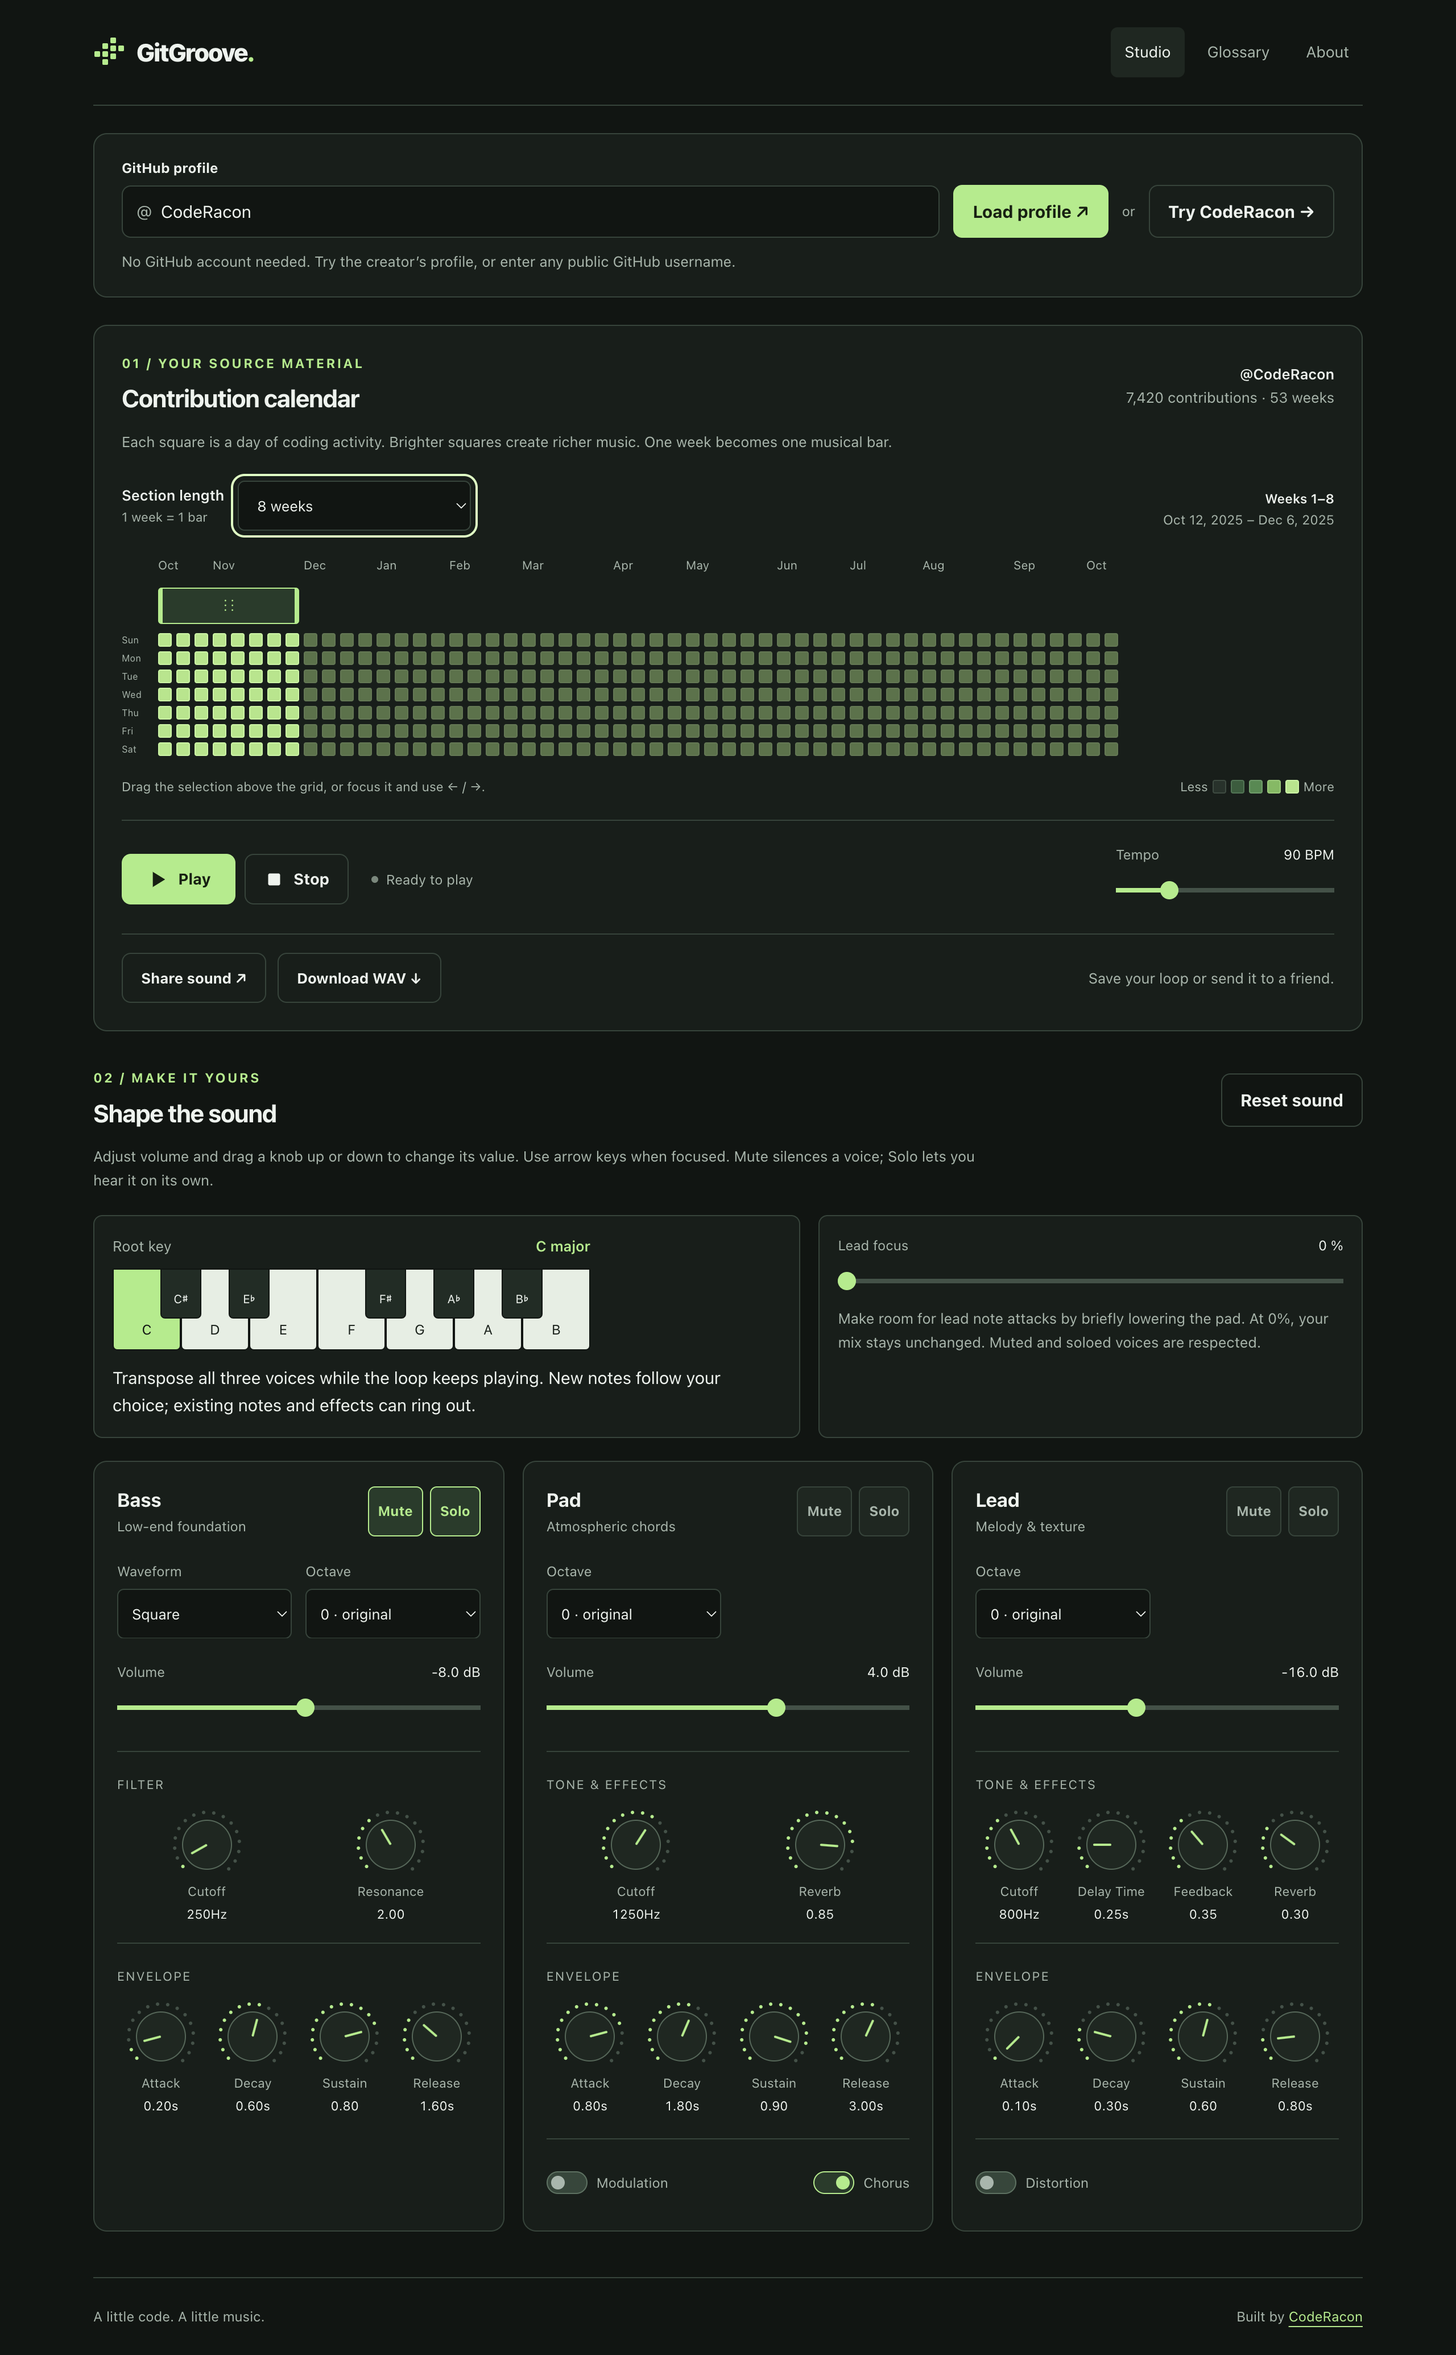
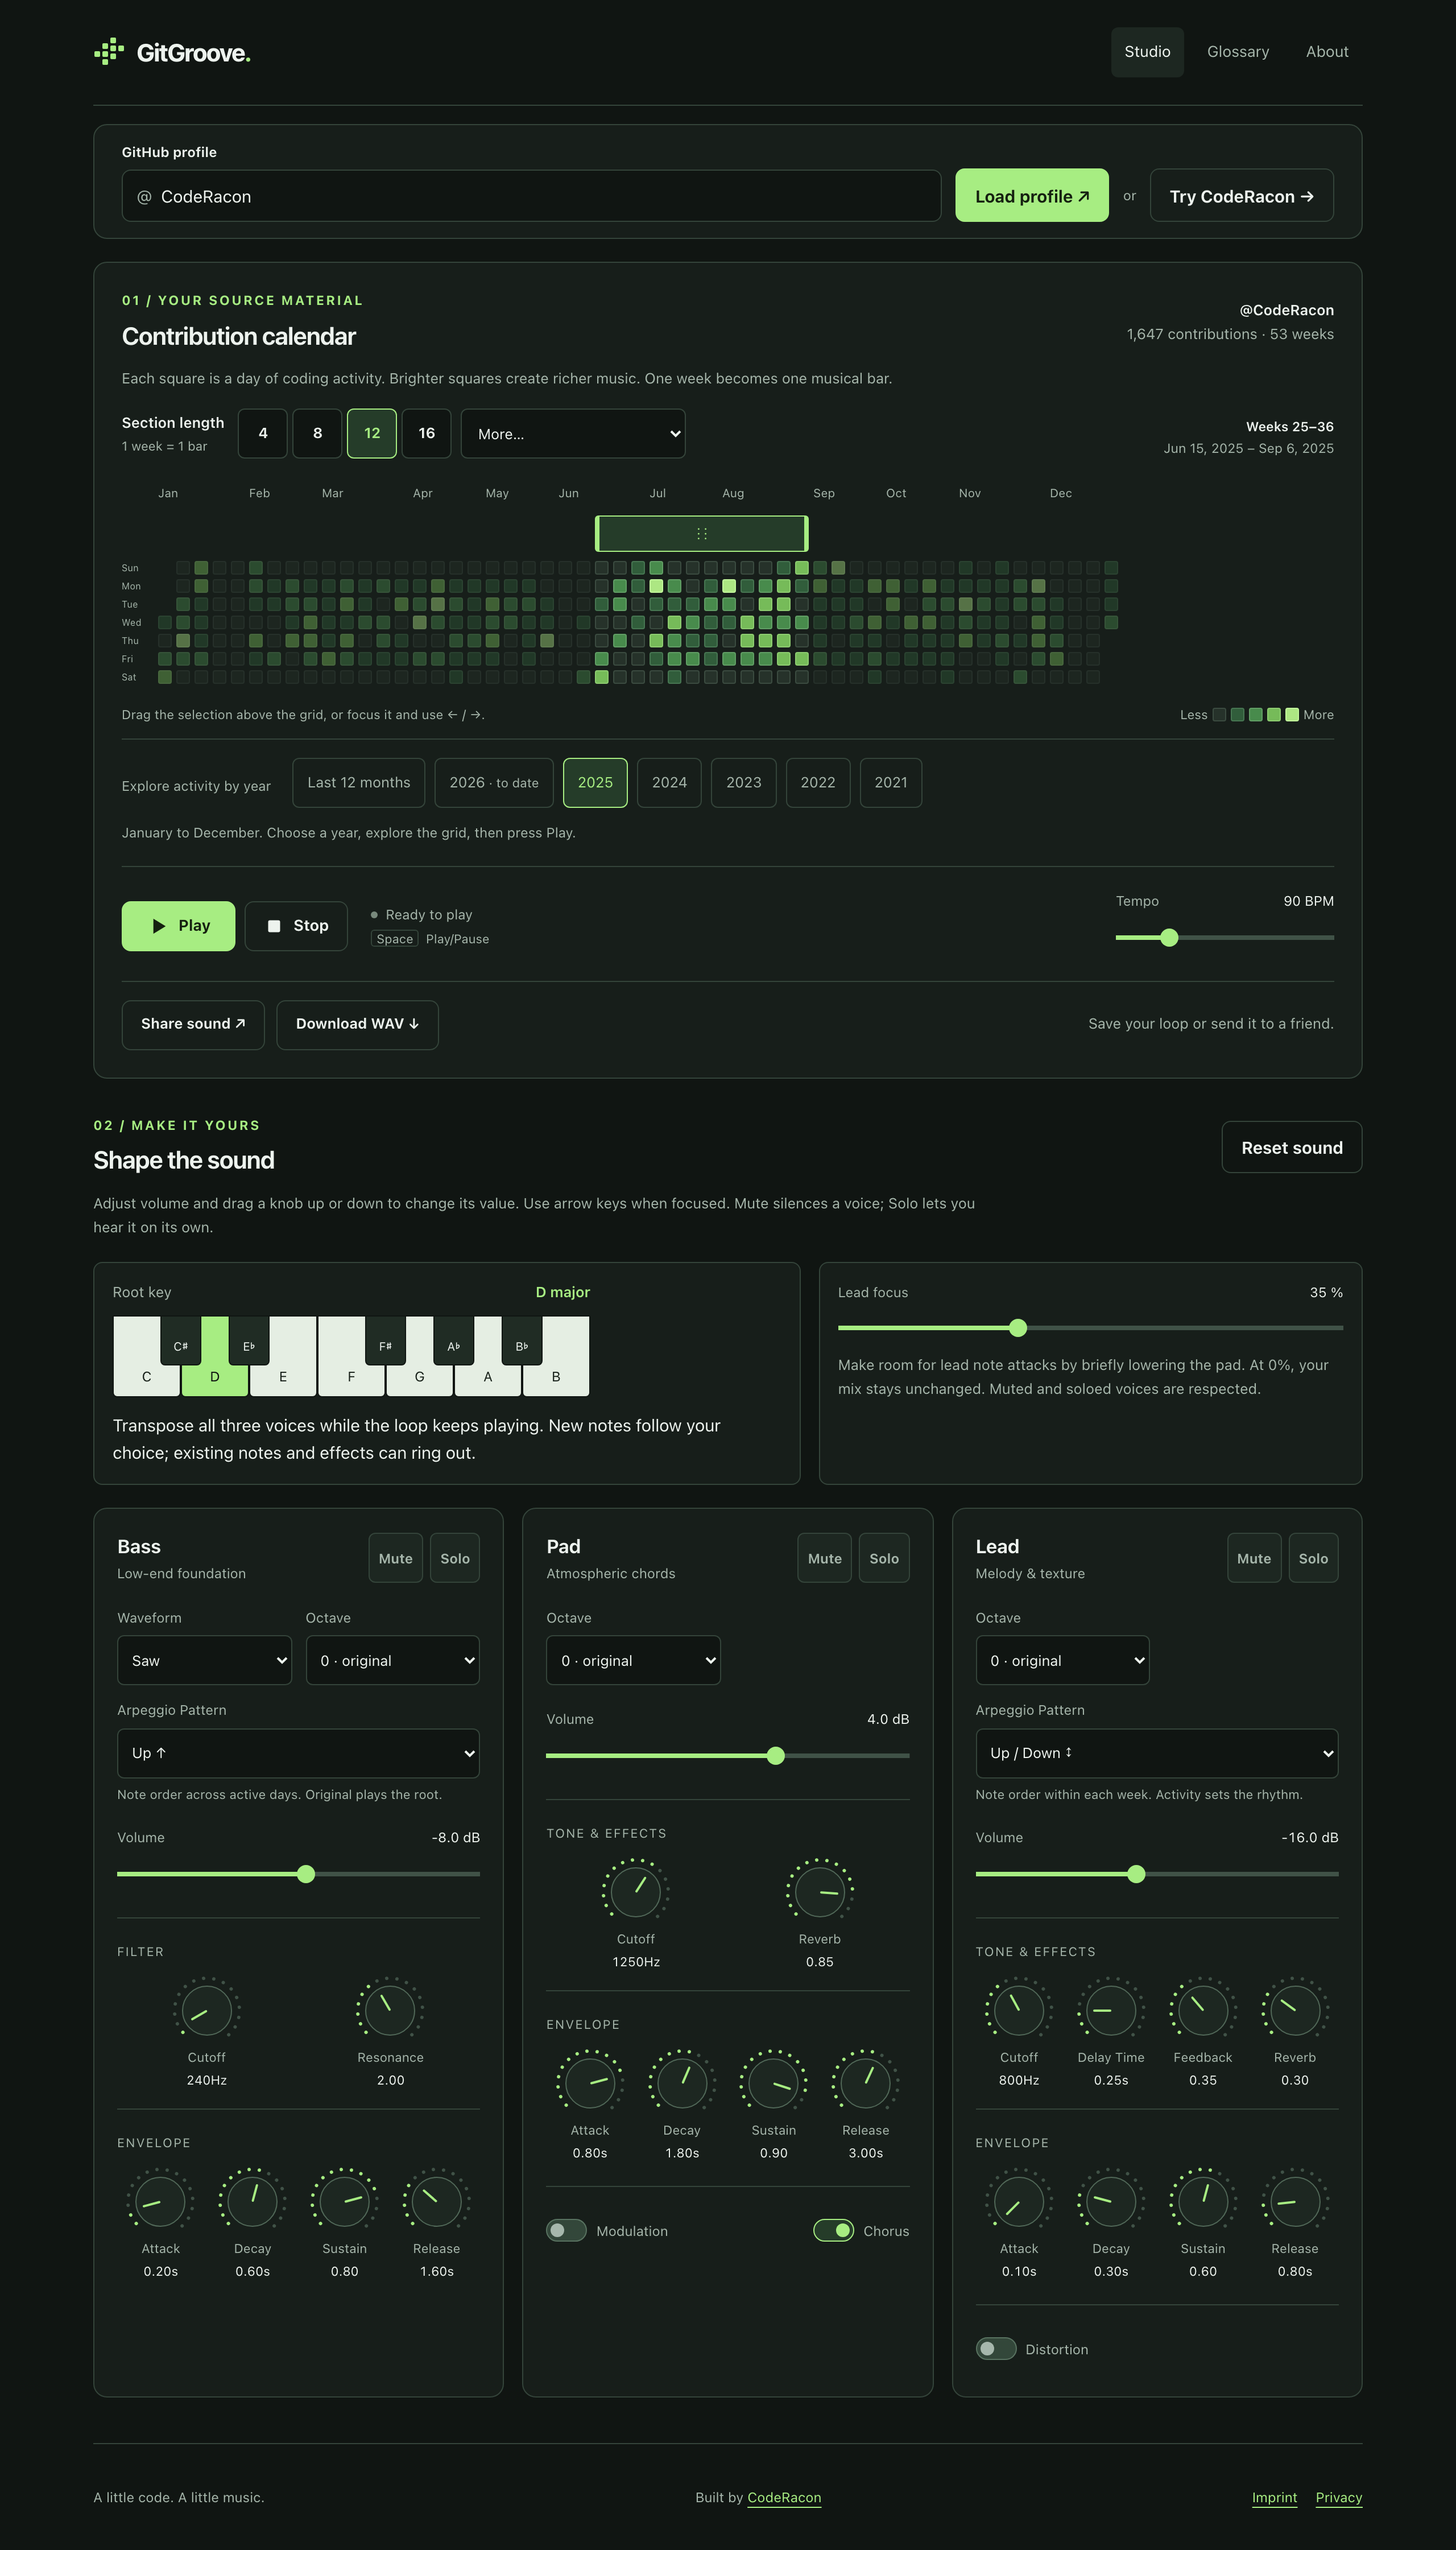
docs: refresh studio screenshot with varied contribution activity

diff --git a/README.md b/README.md
@@ -6,9 +6,9 @@ GitGroove makes a GitHub profile's contribution history audible. A calendar of d
 
 The project combines data visualization, musical mapping and real-time audio in a Vue/TypeScript application. Built by [CodeRacon](https://github.com/CodeRacon) as a playable sound sculpture and a project for the [developer portfolio](https://www.michael-buschmann.dev).
 
-![GitGroove: contribution calendar, playback controls and three synth channels](.github/images/gitgroove-studio.png)
+![GitGroove studio: contribution history, quick loop lengths, root key and three synth channels with arpeggio controls](.github/images/gitgroove-studio.png)
 
-_Studio view with a synthetic test calendar. The contribution counts shown are not actual activity data from CodeRacon's profile._
+_Current studio view with illustrative contribution data, including quieter weeks, gaps and bursts of activity. The counts are synthetic and do not represent CodeRacon's actual GitHub history._
 
 ## Try it
 
